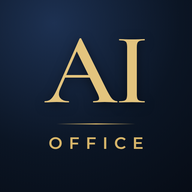
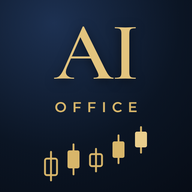
Іконка AI / OFFICE зі свічками (файли) (#356)
* llmcases: рівні з денного графіка (фрактали D1) і відстань до найближчого рівня в бік угоди/позаду

Claude-Session: https://claude.ai/code/session_01PfKZ3KmLfycDhaKatouCoE

* llm_pilot: обезличені кейси і результати (автоматично)

* levels: статистика денних рівнів (підходи, відбій/пробій, наскільки йде далі) + ознаки рівнів для сигналів TD

Claude-Session: https://claude.ai/code/session_01PfKZ3KmLfycDhaKatouCoE

* llm_pilot: обезличені кейси і результати (автоматично)

* levels: статистика денних рівнів (автоматично)

* Журнал покращень TD: що допомагає, що ні (для рішення про картку)

Claude-Session: https://claude.ai/code/session_01PfKZ3KmLfycDhaKatouCoE

* llmcases/levels: rebase -X theirs (конфлікт результатів при паралельних запусках)

Claude-Session: https://claude.ai/code/session_01PfKZ3KmLfycDhaKatouCoE

* рівні: денні, H4 і H1 (рівні того ТФ, на якому йде вхід) — статистика й ознаки сигналів

Claude-Session: https://claude.ai/code/session_01PfKZ3KmLfycDhaKatouCoE

* levels: статистика денних рівнів (автоматично)

* llm_pilot: обезличені кейси і результати (автоматично)

* llm_pilot: обезличені кейси і результати (автоматично)

* Журнал: рівні H4/H1 — найсильніший знайдений фільтр; що не підтвердилось

Claude-Session: https://claude.ai/code/session_01PfKZ3KmLfycDhaKatouCoE

* Картка TD: підтримка рядка «Слабкий сигнал» (hyp_json.warn) у тексті й на зображенні — лише показ, у live не підключено
[…]

diff --git a/office_web/lev_static/sw.js b/office_web/lev_static/sw.js
@@ -1,5 +1,5 @@
 // AI Office · Лев: мінімальний service worker. Дані завжди з мережі (ціни й угоди не кешуються); оболонка сторінки — з мережі, а без звʼязку з кешу.
-const SHELL = 'lev-shell-v4';
+const SHELL = 'lev-shell-v5';
 self.addEventListener('install', e => { self.skipWaiting(); e.waitUntil(caches.open(SHELL).then(c => c.addAll(['/lev/', '/lev/icon-192.png']).catch(() => {}))); });
 self.addEventListener('activate', e => { e.waitUntil(caches.keys().then(ks => Promise.all(ks.filter(k => k !== SHELL).map(k => caches.delete(k)))).then(() => self.clients.claim())); });
 self.addEventListener('fetch', e => {
